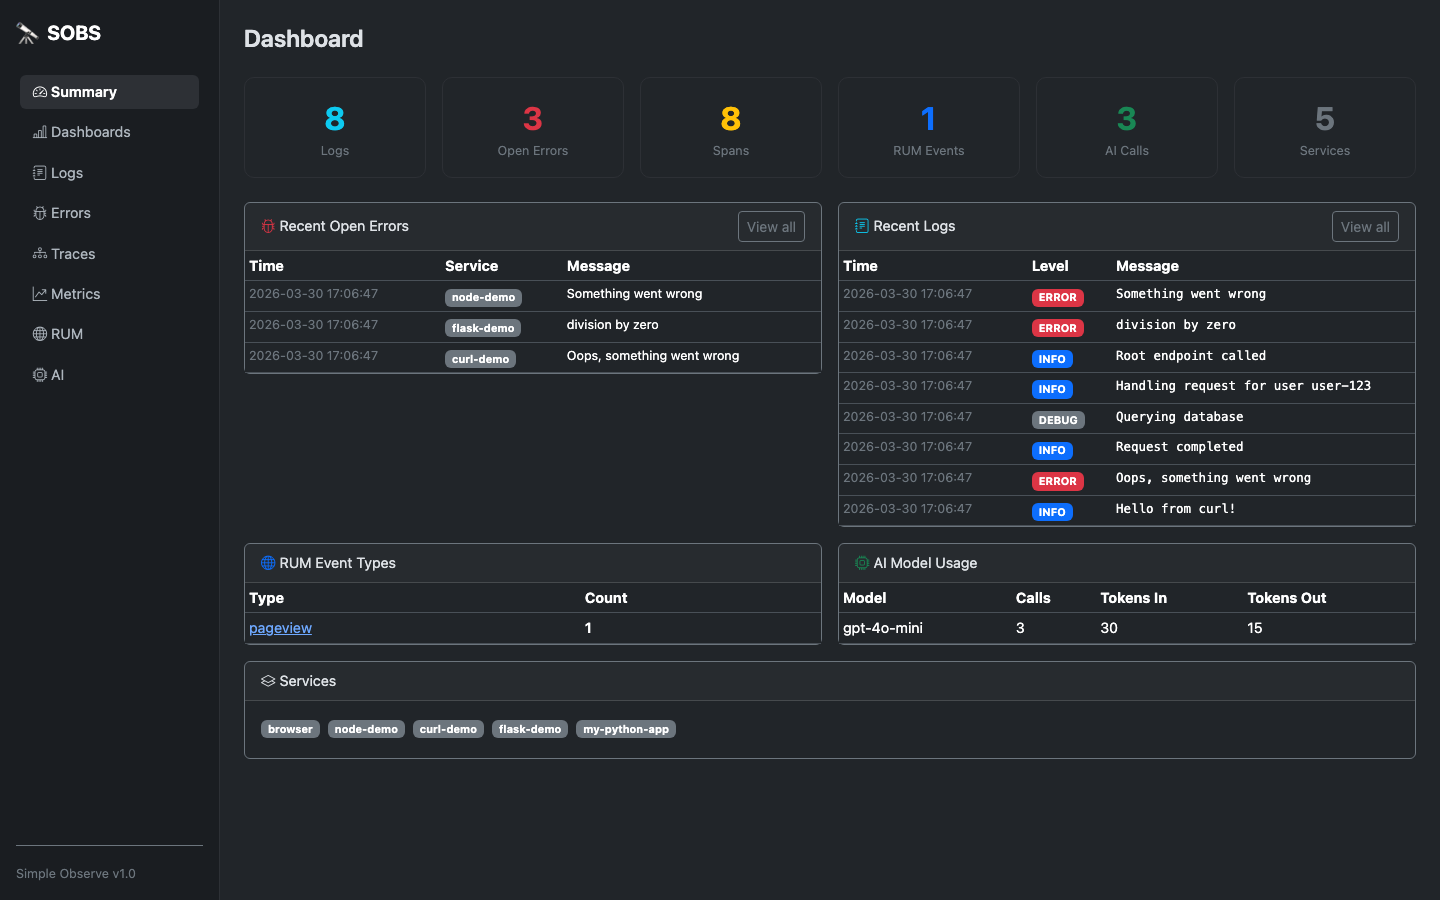
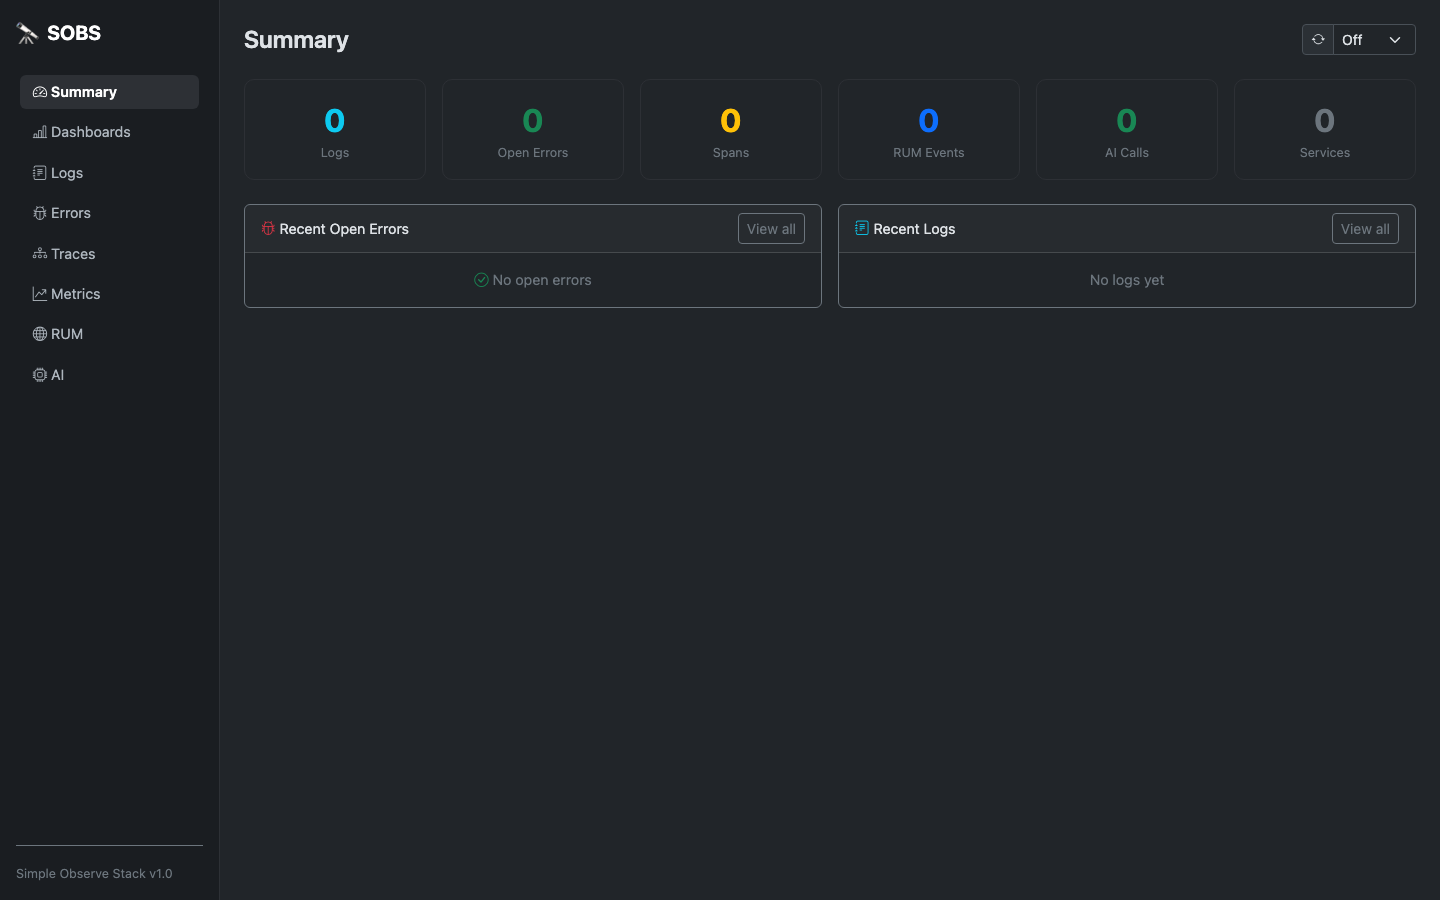
Add auto metric-rules help page and refresh help screenshots

diff --git a/templates/auto_metrics_rules_help.html b/templates/auto_metrics_rules_help.html
@@ -1,0 +1,105 @@
+{% extends "base.html" %}
+{% block title %}Auto Make Metric Rules Help{% endblock %}
+{% block content %}
+<div class="d-flex justify-content-between align-items-center mb-3">
+  <div>
+    <h4 class="fw-semibold mb-1">Auto Make Metric Rules Help</h4>
+    <p class="text-secondary mb-0">How the auto-generation flow builds threshold rules from recent derived-signal history.</p>
+  </div>
+  <a class="btn btn-outline-secondary btn-sm" href="{{ url_for('view_metrics_rules') }}">
+    <i class="bi bi-arrow-left me-1"></i>Back to Rules
+  </a>
+</div>
+
+<div class="row g-3 mb-3">
+  <div class="col-lg-4">
+    <div class="card border-secondary h-100">
+      <div class="card-body">
+        <h6 class="mb-2"><i class="bi bi-1-circle me-1"></i>Set Scope</h6>
+        <p class="small text-secondary mb-0">Choose a recent time window, minimum data points, optional service filter, and whether to include Attr FP scoped candidates.</p>
+      </div>
+    </div>
+  </div>
+  <div class="col-lg-4">
+    <div class="card border-secondary h-100">
+      <div class="card-body">
+        <h6 class="mb-2"><i class="bi bi-2-circle me-1"></i>Preview First</h6>
+        <p class="small text-secondary mb-0">Use Preview to inspect candidates before creating anything. Existing rules are skipped and reported in the summary line.</p>
+      </div>
+    </div>
+  </div>
+  <div class="col-lg-4">
+    <div class="card border-secondary h-100">
+      <div class="card-body">
+        <h6 class="mb-2"><i class="bi bi-3-circle me-1"></i>Create Safely</h6>
+        <p class="small text-secondary mb-0">Create writes only the current preview set and is capped at 200 new rules per run to avoid accidental bulk creation.</p>
+      </div>
+    </div>
+  </div>
+</div>
+
+<div class="card border-secondary mb-3">
+  <div class="card-header">Panel Controls</div>
+  <div class="card-body p-0">
+    <table class="table table-dark table-sm align-middle mb-0">
+      <thead>
+        <tr>
+          <th style="width:22%">Control</th>
+          <th>Description</th>
+        </tr>
+      </thead>
+      <tbody>
+        <tr>
+          <td class="font-monospace">Window (hours)</td>
+          <td>How far back to scan for signal values. Typical values: 24 for day-scale baselines, 72-168 for slower-moving services.</td>
+        </tr>
+        <tr>
+          <td class="font-monospace">Min points</td>
+          <td>Minimum number of points required for a candidate. Higher values reduce noisy rules for sparse signals.</td>
+        </tr>
+        <tr>
+          <td class="font-monospace">Service scope</td>
+          <td>Limit candidate discovery to one service, or leave as All services for global generation.</td>
+        </tr>
+        <tr>
+          <td class="font-monospace">Include Attr FP</td>
+          <td>When enabled, candidates can be generated per attribute fingerprint (for example route-level or method-level slices).</td>
+        </tr>
+        <tr>
+          <td class="font-monospace">Preview</td>
+          <td>Shows candidate rows and summary counts only. No rules are written.</td>
+        </tr>
+        <tr>
+          <td class="font-monospace">Create</td>
+          <td>Creates new rules from the current candidate set, skipping any rule names that already exist.</td>
+        </tr>
+      </tbody>
+    </table>
+  </div>
+</div>
+
+<div class="card border-secondary mb-3">
+  <div class="card-header">Threshold Heuristics</div>
+  <div class="card-body">
+    <p class="small text-secondary mb-2">Auto-generated thresholds are derived from recent quantiles of each signal:</p>
+    <ul class="small mb-0">
+      <li>Comparator is inferred from signal naming hints: signals like latency/error typically use <code>value &gt;= threshold</code>, while availability/throughput style signals typically use <code>value &lt;= threshold</code>.</li>
+      <li>Warning and critical thresholds are computed from distribution quantiles so the generated values are data-aware, not fixed constants.</li>
+      <li>Rule names include source, signal, and scope so duplicates can be safely detected and skipped.</li>
+    </ul>
+  </div>
+</div>
+
+<div class="card border-secondary mb-0">
+  <div class="card-header">Recommended Flow</div>
+  <div class="card-body">
+    <ol class="small mb-0">
+      <li>Start with <strong>Window = 24</strong> and <strong>Min points = 30</strong>.</li>
+      <li>Run <strong>Preview</strong> and review the candidate table for obvious outliers.</li>
+      <li>Tighten with <strong>Service scope</strong> if one team/service needs separate baselines.</li>
+      <li>Run <strong>Create</strong>, then verify in Active Rules and the Metrics anomaly views.</li>
+      <li>Delete or tune any noisy rules manually in the Create/Active Rules panels.</li>
+    </ol>
+  </div>
+</div>
+{% endblock %}

diff --git a/templates/metrics_rules.html b/templates/metrics_rules.html
@@ -9,7 +9,10 @@
 </div>
 
 <div class="card border-secondary mb-3">
-  <div class="card-header">Auto Make Metric Rules</div>
+  <div class="card-header d-flex align-items-center justify-content-between">
+    <span>Auto Make Metric Rules</span>
+    <a href="{{ url_for('auto_metrics_rules_help') }}" target="_blank" class="link-secondary text-decoration-none" title="Auto Rules Help" aria-label="Auto Rules Help" style="opacity:.75; font-size:1.1rem; line-height:1;"><i class="bi bi-question-circle"></i></a>
+  </div>
   <div class="card-body">
     <p class="small text-secondary mb-3">Generate baseline threshold rules from recent derived-signal history. Existing rules are skipped automatically. Create is capped at 200 rules per run.</p>
     <form method="post" action="{{ url_for('auto_metrics_rules') }}" class="row g-2 align-items-end">
@@ -55,6 +58,46 @@
     {% endif %}
   </div>
 </div>
+
+{% if auto_preview %}
+<div class="card border-secondary mb-3">
+  <div class="card-header">Preview Candidates ({{ auto_preview|length }})</div>
+  <div class="table-responsive">
+    <table class="table table-dark table-sm align-middle mb-0">
+      <thead>
+        <tr>
+          <th>Name</th>
+          <th>Source</th>
+          <th>Signal</th>
+          <th>Service</th>
+          <th>Attr FP</th>
+          <th>Comparator</th>
+          <th>Warning</th>
+          <th>Critical</th>
+          <th>Min Sample</th>
+          <th>Points</th>
+        </tr>
+      </thead>
+      <tbody>
+        {% for c in auto_preview %}
+        <tr>
+          <td>{{ c.name }}</td>
+          <td>{{ c.source }}</td>
+          <td class="font-monospace small">{{ c.signal }}</td>
+          <td>{{ c.service or 'any' }}</td>
+          <td class="font-monospace small">{{ c.attr_fp or '—' }}</td>
+          <td>{{ c.comparator }}</td>
+          <td>{{ c.warning_threshold }}</td>
+          <td>{{ c.critical_threshold }}</td>
+          <td>{{ c.min_sample_count }}</td>
+          <td>{{ c.point_count }}</td>
+        </tr>
+        {% endfor %}
+      </tbody>
+    </table>
+  </div>
+</div>
+{% endif %}
 
 <div class="card border-secondary mb-3">
   <div class="card-header d-flex align-items-center justify-content-between">
@@ -168,46 +211,6 @@
   </div>
 </div>
 
-{% if auto_preview %}
-<div class="card border-secondary mb-3">
-  <div class="card-header">Preview Candidates ({{ auto_preview|length }})</div>
-  <div class="table-responsive">
-    <table class="table table-dark table-sm align-middle mb-0">
-      <thead>
-        <tr>
-          <th>Name</th>
-          <th>Source</th>
-          <th>Signal</th>
-          <th>Service</th>
-          <th>Attr FP</th>
-          <th>Comparator</th>
-          <th>Warning</th>
-          <th>Critical</th>
-          <th>Min Sample</th>
-          <th>Points</th>
-        </tr>
-      </thead>
-      <tbody>
-        {% for c in auto_preview %}
-        <tr>
-          <td>{{ c.name }}</td>
-          <td>{{ c.source }}</td>
-          <td class="font-monospace small">{{ c.signal }}</td>
-          <td>{{ c.service or 'any' }}</td>
-          <td class="font-monospace small">{{ c.attr_fp or '—' }}</td>
-          <td>{{ c.comparator }}</td>
-          <td>{{ c.warning_threshold }}</td>
-          <td>{{ c.critical_threshold }}</td>
-          <td>{{ c.min_sample_count }}</td>
-          <td>{{ c.point_count }}</td>
-        </tr>
-        {% endfor %}
-      </tbody>
-    </table>
-  </div>
-</div>
-{% endif %}
-
 <div class="card border-secondary">
   <div class="card-header d-flex justify-content-between align-items-center">
     <span>{{ rules|length }} active rule{{ '' if rules|length == 1 else 's' }}</span>
@@ -221,7 +224,7 @@
         <option value="service">Service</option>
         <option value="sample">Min Sample</option>
       </select>
-      <button id="rulesSortDirBtn" type="button" class="btn btn-sm btn-outline-secondary" title="Toggle sort direction">A-Z</button>
+      <button id="rulesSortDirBtn" type="button" class="btn btn-sm btn-outline-secondary flex-shrink-0 text-nowrap" style="min-width:4rem;" title="Toggle sort direction">A-Z</button>
     </div>
   </div>
   <div class="table-responsive">

diff --git a/templates/summary.html b/templates/summary.html
@@ -82,7 +82,7 @@
     {% if state == 'outlier' %}{% set badge_cls = 'bg-danger' %}{% set icon = 'bi-exclamation-triangle-fill' %}
     {% elif state == 'warning' %}{% set badge_cls = 'bg-warning text-dark' %}{% set icon = 'bi-exclamation-circle-fill' %}
     {% else %}{% set badge_cls = 'bg-success' %}{% set icon = 'bi-check-circle-fill' %}{% endif %}
-    <a href="{{ url_for('view_metrics', service=item.service) }}" class="text-decoration-none me-2 mb-2 d-inline-flex align-items-center gap-1 badge {{ badge_cls }} fs-6 fw-normal px-2 py-1" title="{{ item.signal_count }} signal(s)">
+    <a href="{{ url_for('view_metrics', service=item.service) }}" class="text-decoration-none badge {{ badge_cls }} me-1 mb-1 d-inline-flex align-items-center gap-1" title="{{ item.signal_count }} signal(s)">
       <i class="bi {{ icon }}"></i> {{ item.service }}
       <span class="opacity-75 small">({{ item.signal_count }})</span>
     </a>

diff --git a/tests/test_app.py b/tests/test_app.py
@@ -1038,6 +1038,13 @@ class TestUIPages:
         assert b"Chart Editor Help" in data
         assert b"Custom ECharts" in data
 
+    async def test_auto_metrics_rules_help_page(self, client):
+        r = await client.get("/metrics/help/rules/auto")
+        assert r.status_code == 200
+        data = await r.get_data()
+        assert b"Auto Make Metric Rules Help" in data
+        assert b"Preview First" in data
+
     async def test_rum_js_served(self, client):
         r = await client.get("/static/rum.js")
         assert r.status_code == 200

diff --git a/app.py b/app.py
@@ -6521,6 +6521,12 @@ async def metrics_rules_help():
     return await render_template("metrics_rules_help.html")
 
 
+@app.route("/metrics/help/rules/auto")
+@require_basic_auth
+async def auto_metrics_rules_help():
+    return await render_template("auto_metrics_rules_help.html")
+
+
 @app.route("/dashboards/<dashboard_id>/delete", methods=["POST"])
 @require_basic_auth
 async def delete_dashboard(dashboard_id: str):
